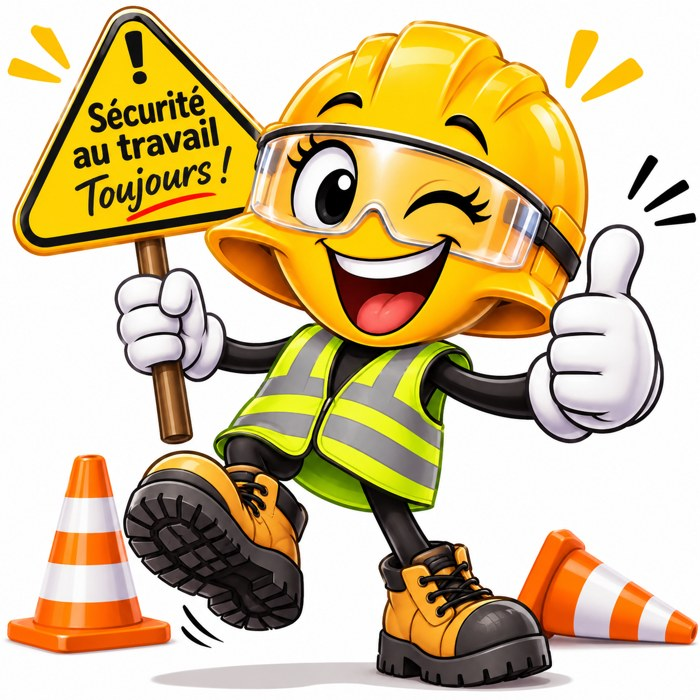
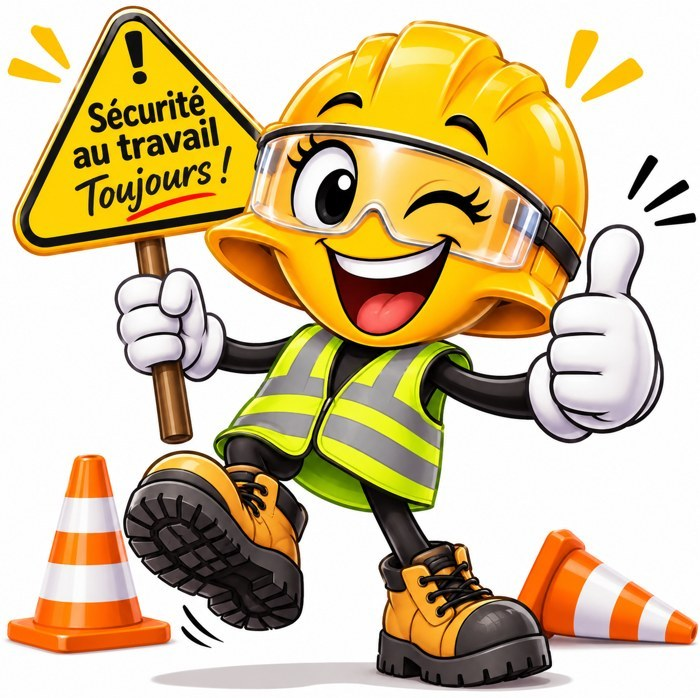
Mascotte : rogne les marges blanches pour rapprocher l'image de sa légende

diff --git a/index.html b/index.html
@@ -75,7 +75,7 @@
         <div class="role">Votre formatrice</div>
         <h3>Laure PIPET</h3>
         <p class="quote">« Pas de DUERP ? On le construit ensemble. Puis on forme, on se trompe, on recommence, et on repart plus fort. »</p>
-        <img class="mascotte" src="/assets/images/mascotte-bamy.jpg" alt="Bamy, la mascotte de BAME PRÉVENTION : un casque de chantier souriant qui lève le pouce" loading="lazy" width="700" height="700">
+        <img class="mascotte" src="/assets/images/mascotte-bamy.jpg" alt="Bamy, la mascotte de BAME PRÉVENTION : un casque de chantier souriant qui lève le pouce" loading="lazy" width="700" height="698">
         <p class="mascotte-legende">Bamy, la mascotte de la prévention</p>
       </div>
       <div class="jeu jeu--hero jeu--haut">

diff --git a/assets/css/style.css b/assets/css/style.css
@@ -484,5 +484,5 @@ p{ margin:0 0 1em; }
 /* Visuel du jeu BAME PRÉVENTION 360 */
 .visuel-360{ width:100%; height:auto; display:block; }
 
-.hero-card img.mascotte{ width:50%; aspect-ratio:1/1; object-fit:contain; border-radius:0; margin:14px auto 4px; display:block; }
-.mascotte-legende{ text-align:center; font-weight:700; color:var(--teal-dark); font-size:.9rem; margin:0; }
+.hero-card img.mascotte{ width:50%; height:auto; aspect-ratio:auto; object-fit:contain; border-radius:0; margin:14px auto 0; display:block; }
+.mascotte-legende{ text-align:center; font-weight:700; color:var(--teal-dark); font-size:.9rem; margin:2px 0 0; }

diff --git a/pages.py b/pages.py
@@ -89,7 +89,7 @@ INDEX_BODY = f"""
         <div class="role">Votre formatrice</div>
         <h3>Laure PIPET</h3>
         <p class="quote">« Pas de DUERP ? On le construit ensemble. Puis on forme, on se trompe, on recommence, et on repart plus fort. »</p>
-        <img class="mascotte" src="/assets/images/mascotte-bamy.jpg" alt="Bamy, la mascotte de BAME PRÉVENTION : un casque de chantier souriant qui lève le pouce" loading="lazy" width="700" height="700">
+        <img class="mascotte" src="/assets/images/mascotte-bamy.jpg" alt="Bamy, la mascotte de BAME PRÉVENTION : un casque de chantier souriant qui lève le pouce" loading="lazy" width="700" height="698">
         <p class="mascotte-legende">Bamy, la mascotte de la prévention</p>
       </div>
       <div class="jeu jeu--hero jeu--haut">
